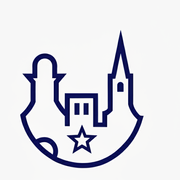
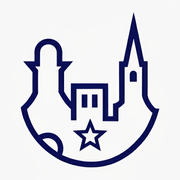
PWA-icoon: embleem automatisch gecentreerd (bbox-detectie) + cache-bust v=2
- gen-app-icons.js detecteert nu de bounding box van het embleem (boven de tekst)
  en centreert de uitsnede daarop → logo netjes in het midden i.p.v. rechtsboven.
- Icoon-verwijzingen ?v=2 zodat browsers/telefoons het nieuwe plaatje ophalen.

Changed region(s): [[0.1111, 0.0556, 0.8889, 0.9444]]

diff --git a/scripts/gen-app-icons.js b/scripts/gen-app-icons.js
@@ -1,23 +1,44 @@
 #!/usr/bin/env node
 // Genereert de PWA-app-iconen uit public/img/app-icon-source.png (het Grisburgh-logo).
-// Snijdt het embleem uit (tekst eronder weg) en centreert het met marge ("safe zone")
-// op een crème vlak, zodat iOS/Android-maskers het niet afknippen.
+// Detecteert automatisch de bounding box van het embleem (de donkere tekening boven de
+// "Grisburgh"-tekst) en centreert daar een vierkante uitsnede omheen → embleem altijd
+// netjes in het midden. De crop blijft boven de tekstregel zodat die wegvalt.
 //   node scripts/gen-app-icons.js
 const sharp = require('sharp');
 const SRC = 'public/img/app-icon-source.png';
-// Eén vierkant rond het embleem (bron = 1024x1024, embleem-centrum ~537,448).
-// Alle pixels komen uit het origineel → geen aparte marge die moet matchen, dus geen naad.
-// De crop stopt boven de "Grisburgh"-tekst (~y720).
-const crop = { left: 267, top: 178, width: 540, height: 540 };
+const TEXT_TOP = 716;   // tekst ("Grisburgh") begint ~723 → net erboven afsnijden
+const DARK = 110;       // navy ≈ grijswaarde 36; achtergrond ≈ 240
+const FILL = 0.82;      // embleem vult ~82% van het icoon (rest = veilige marge)
 
-async function make(size, out) {
-  await sharp(SRC).extract(crop).resize(size, size).png().toFile(out);
-  console.log('  ✓', out, size + 'x' + size);
+async function detectBox() {
+  const { data, info } = await sharp(SRC).greyscale().raw().toBuffer({ resolveWithObject: true });
+  const w = info.width, ch = info.channels;
+  const scanH = Math.min(TEXT_TOP, info.height);
+  let minX = w, maxX = 0, minY = scanH, maxY = 0;
+  for (let y = 0; y < scanH; y++) {
+    for (let x = 0; x < w; x++) {
+      if (data[(y * w + x) * ch] < DARK) {
+        if (x < minX) minX = x; if (x > maxX) maxX = x;
+        if (y < minY) minY = y; if (y > maxY) maxY = y;
+      }
+    }
+  }
+  return { minX, maxX, minY, maxY, w, h: info.height };
 }
+
 (async () => {
-  await make(512, 'public/img/app-icon-512.png');
-  await make(192, 'public/img/app-icon-192.png');
-  await make(180, 'public/img/app-icon-180.png');   // apple-touch-icon
-  await make(32,  'public/img/favicon-32.png');
+  const b = await detectBox();
+  const cx = (b.minX + b.maxX) / 2, cy = (b.minY + b.maxY) / 2;
+  const embDim = Math.max(b.maxX - b.minX, b.maxY - b.minY);
+  // Symmetrisch vierkant rond (cx,cy); begrens zodat het binnen het beeld én boven de tekst blijft.
+  const half = Math.min(embDim / 2 / FILL, cx, b.w - cx, cy, TEXT_TOP - cy);
+  const size = Math.round(half * 2);
+  const crop = { left: Math.round(cx - half), top: Math.round(cy - half), width: size, height: size };
+  console.log('embleem-bbox:', { minX: b.minX, maxX: b.maxX, minY: b.minY, maxY: b.maxY }, '→ crop:', crop);
+
+  for (const [px, out] of [[512, 'app-icon-512'], [192, 'app-icon-192'], [180, 'app-icon-180'], [32, 'favicon-32']]) {
+    await sharp(SRC).extract(crop).resize(px, px).png().toFile('public/img/' + out + '.png');
+    console.log('  ✓ public/img/' + out + '.png', px + 'x' + px);
+  }
   console.log('klaar');
 })();

diff --git a/public/index.html b/public/index.html
@@ -7,9 +7,9 @@
   <!-- PWA: installeerbaar als app-icoon op het beginscherm -->
   <link rel="manifest" href="/manifest.webmanifest">
   <meta name="theme-color" content="#1c2a6b">
-  <link rel="icon" href="/img/favicon-32.png" sizes="32x32" type="image/png">
-  <link rel="icon" href="/img/app-icon-192.png" sizes="192x192" type="image/png">
-  <link rel="apple-touch-icon" href="/img/app-icon-180.png">
+  <link rel="icon" href="/img/favicon-32.png?v=2" sizes="32x32" type="image/png">
+  <link rel="icon" href="/img/app-icon-192.png?v=2" sizes="192x192" type="image/png">
+  <link rel="apple-touch-icon" href="/img/app-icon-180.png?v=2">
   <meta name="apple-mobile-web-app-capable" content="yes">
   <meta name="mobile-web-app-capable" content="yes">
   <meta name="apple-mobile-web-app-title" content="Grisburgh">
